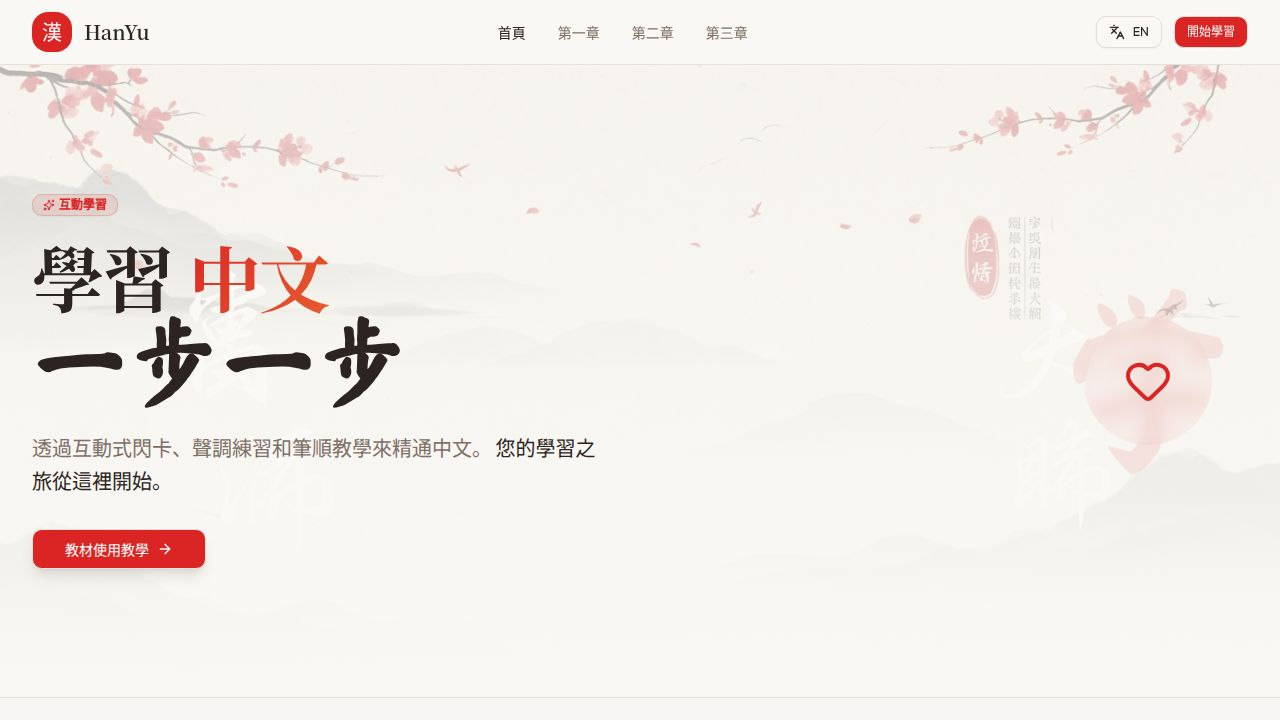
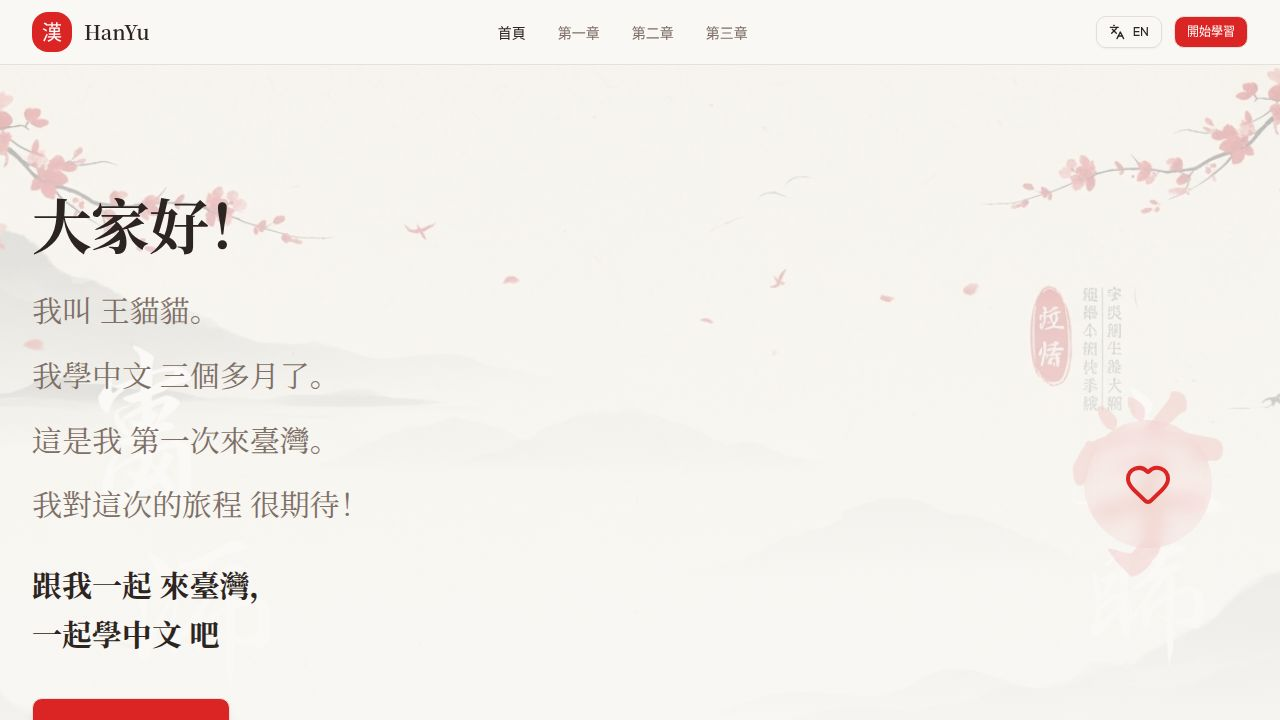
Update homepage introduction with new welcoming text
Modify the home page component to replace the original title and description with a new introduction in Chinese, including a personalized greeting and learning message.

Replit-Commit-Author: Agent
Replit-Commit-Session-Id: f5517adb-6271-45bf-8a5d-8714c1532456
Replit-Commit-Checkpoint-Type: full_checkpoint
Replit-Commit-Event-Id: 099cd5ed-f667-4e83-9862-0c5097c592c0
Replit-Commit-Screenshot-Url: https://storage.googleapis.com/screenshot-production-us-central1/5dcf2843-d3e7-4715-9185-db667d82b80a/f5517adb-6271-45bf-8a5d-8714c1532456/2E5CXXC
Replit-Helium-Checkpoint-Created: true

diff --git a/client/src/pages/home.tsx b/client/src/pages/home.tsx
@@ -404,23 +404,24 @@ export default function Home() {
               animate={{ opacity: 1, y: 0 }}
               transition={{ duration: 0.6 }}
             >
-              <Badge className="mb-6 bg-primary/10 text-primary border-primary/20 gap-1">
-                <Sparkles className="w-3 h-3" />
-                {t.hero.badge}
-              </Badge>
-              <h1 className="text-5xl md:text-7xl font-bold font-serif-chinese tracking-tight">
-                {t.hero.title1} <span className="text-gradient-vermillion">{t.hero.title2}</span>
-                <br />
-                <span className="font-chinese text-6xl md:text-8xl">{t.hero.subtitle}</span>
+              <h1 className="text-4xl md:text-6xl font-bold font-serif-chinese tracking-tight mb-8 text-foreground">
+                大家好！
               </h1>
-              <p className="mt-6 text-lg md:text-xl text-muted-foreground max-w-xl leading-relaxed">
-                {t.hero.description}
-                <span className="text-foreground font-medium"> {t.hero.descriptionHighlight}</span>
-              </p>
-              <div className="mt-8 flex flex-wrap gap-4">
+              <div className="space-y-4 text-xl md:text-3xl font-serif-chinese text-muted-foreground leading-relaxed">
+                <p>我叫 王貓貓。</p>
+                <p>我學中文 三個多月了。</p>
+                <p>這是我 第一次來臺灣。</p>
+                <p>我對這次的旅程 很期待！</p>
+                <p className="text-foreground font-bold pt-4">
+                  跟我一起 來臺灣，<br/>
+                  一起學中文 吧
+                </p>
+              </div>
+              
+              <div className="mt-10 flex flex-wrap gap-4">
                 <Button 
                   size="lg" 
-                  className="gap-2 bg-primary hover:bg-primary/90 shadow-lg" 
+                  className="gap-2 bg-primary hover:bg-primary/90 shadow-lg text-lg px-8 py-6" 
                   data-testid="button-start-learning"
                   onClick={() => {
                     const toolsSection = document.getElementById('tools-section');
